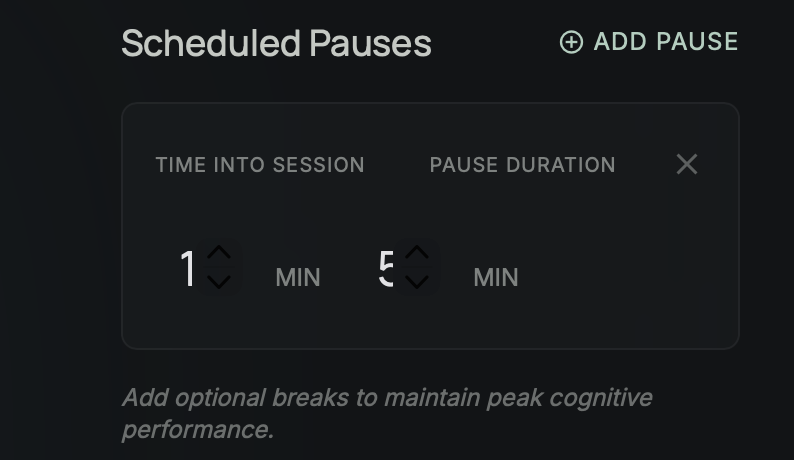
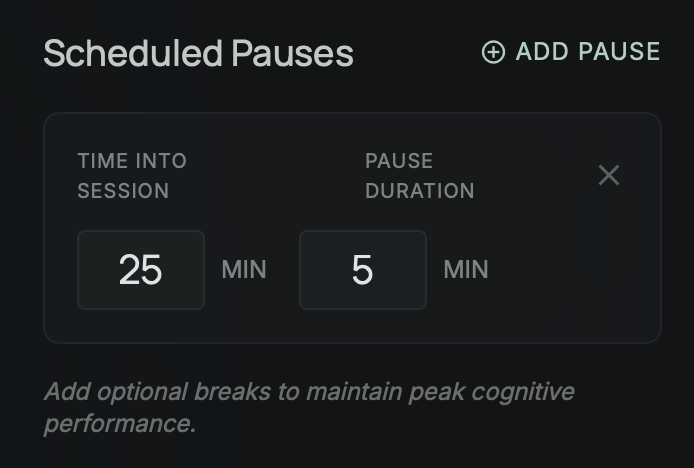
Update scheduled pauses screenshot and description

diff --git a/README.md b/README.md
@@ -12,7 +12,7 @@ Choose your scenery, set custom session duration (5-120 minutes), and schedule b
 ![Setup Screen](screenshots/setup-screen.png)
 
 ### Scheduled Pauses - Maintain Peak Performance
-Add optional breaks at specific times to maintain cognitive performance.
+Add optional breaks by setting "Time Into Session" and "Pause Duration" in minutes. The input boxes make it easy to configure when breaks happen.
 
 ![Scheduled Pauses](screenshots/scheduled-pauses.png)
 
